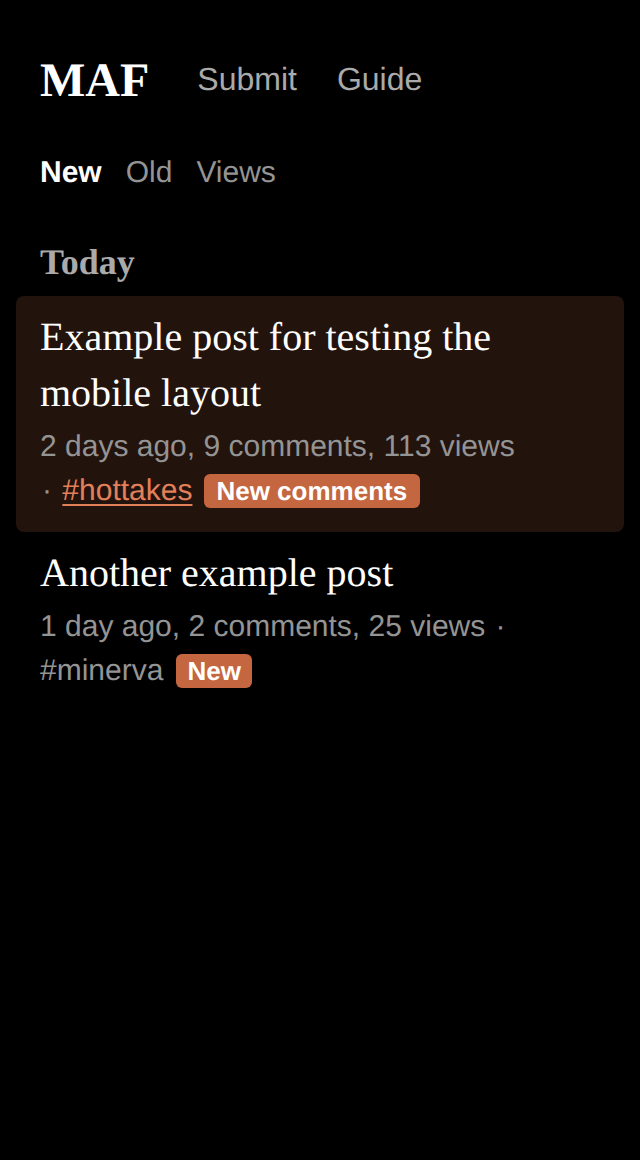
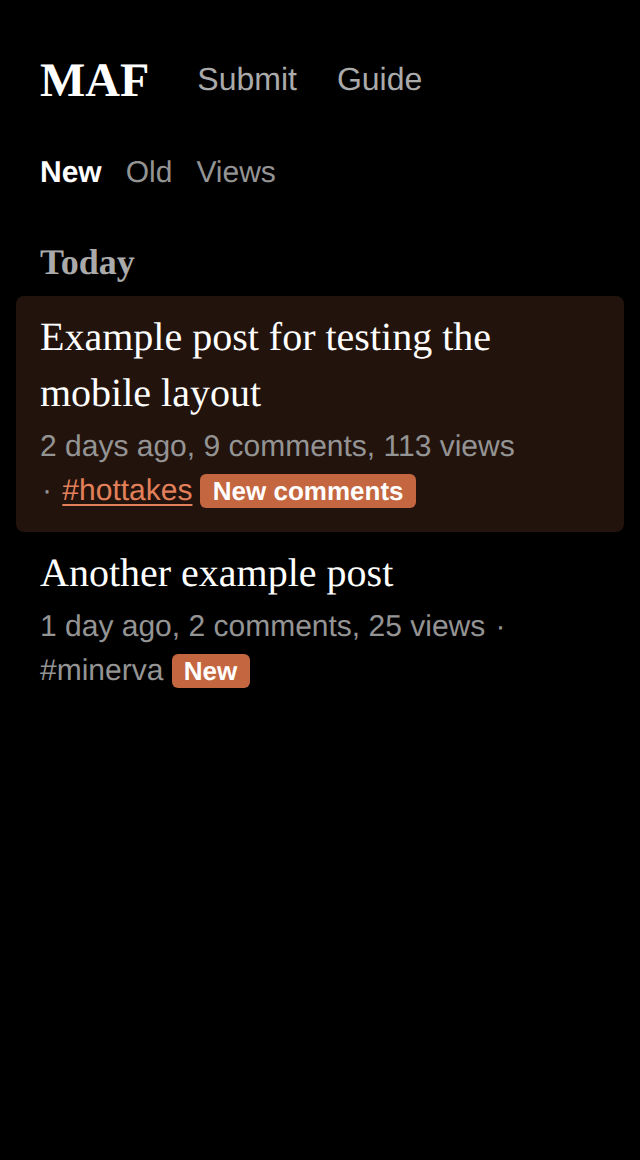
Align wrapped badges and add desktop comparisons

Changed region(s): [[0.3125, 0.4034, 0.6562, 0.4345], [0.25, 0.5586, 0.375, 0.5897]]

diff --git a/maf/static/style.css b/maf/static/style.css
@@ -226,6 +226,8 @@ textarea::placeholder, input::placeholder { color: var(--meta); opacity: 1; }
              text-decoration: underline; text-underline-offset: 3px; }
 /* After Show: new replies say "New" until the next reload; a reaction that went up gets a fading ring. */
 .new-tag { display: inline-block; white-space: nowrap; font: 600 13px var(--sans); color: var(--new-ink); background: var(--new-fill); border-radius: 3px; padding: 1px 6px; margin-left: 6px; }
+/* The preceding space separates inline badges but collapses at a line break. */
+.new-list .meta > .new-tag { margin-left: 0; }
 .react.arrived { box-shadow: 0 0 0 1.5px var(--ink); border-radius: 999px; }
 /* Emoji someone else added since your last visit to the post: the New badge's orange, kept on (new.js). */
 .react.react-new, .react.react-new:hover { background: var(--new-fill); color: var(--new-ink); }

diff --git a/maf/static/new.js b/maf/static/new.js
@@ -137,7 +137,7 @@
     const tag = document.createElement("span");
     tag.className = "new-tag";
     tag.textContent = label;
-    row.querySelector(".meta")?.append(tag);
+    row.querySelector(".meta")?.append(" ", tag);
     newList.append(row);
   }
 
@@ -146,7 +146,11 @@
     Object.assign(openedAt, opened());
     for (const row of [...newList.children]) {
       if (whatsNew(row)) continue;
-      row.querySelector(".new-tag")?.remove();
+      const badge = row.querySelector(".new-tag");
+      if (badge?.previousSibling?.nodeType === Node.TEXT_NODE && badge.previousSibling.nodeValue === " ") {
+        badge.previousSibling.remove();
+      }
+      badge?.remove();
       const [list, next] = homes.get(row) ?? [];
       if (!list) row.remove();
       else if (next?.parentElement === list) list.insertBefore(row, next);

diff --git a/tests/test_new_badge_layout.py b/tests/test_new_badge_layout.py
@@ -21,8 +21,8 @@ def test_new_comments_badge_wraps_whole_but_stays_inline_when_it_fits():
         )
         page = browser.new_page(viewport={"width": 390, "height": 844}, is_mobile=True)
         page.set_content("""<!doctype html><meta name="viewport" content="width=device-width, initial-scale=1">
-            <ol class="list"><li><div class="meta" id="narrow"><span class="counts">12 comments · #synthetic</span><span class="new-tag">New comments</span></div></li>
-            <li><div class="meta" id="wide"><span class="counts">12 comments · #synthetic</span><span class="new-tag">New comments</span></div></li>
+            <ol class="list new-list"><li><div class="meta" id="narrow"><span class="counts">12 comments · #synthetic</span> <span class="new-tag">New comments</span></div></li>
+            <li><div class="meta" id="wide"><span class="counts">12 comments · #synthetic</span> <span class="new-tag">New comments</span></div></li>
             <li><div class="meta" id="tiny"><span class="counts">x</span><span class="new-tag">New comments</span></div></li></ol>""")
         page.add_style_tag(content=CSS.read_text())
         layout = page.evaluate("""() => {
@@ -42,7 +42,8 @@ def test_new_comments_badge_wraps_whole_but_stays_inline_when_it_fits():
                 const text = document.createRange(); text.selectNodeContents(label);
                 const prefix = row.querySelector('.counts').getBoundingClientRect();
                 const fragments = [...text.getClientRects()].map(r => ({top:r.top, left:r.left}));
-                return {fragments, prefixTop:prefix.top, prefixLeft:prefix.left,
+                return {fragments, prefixTop:prefix.top, prefixLeft:prefix.left, prefixRight:prefix.right,
+                        badgeLeft:label.getBoundingClientRect().left,
                         parentRight:row.getBoundingClientRect().right, badgeRight:label.getBoundingClientRect().right};
             }
             return {narrow:measure(narrow), wide:measure(wide), tiny:measure(tiny)};
@@ -52,6 +53,8 @@ def test_new_comments_badge_wraps_whole_but_stays_inline_when_it_fits():
     narrow, wide = layout["narrow"], layout["wide"]
     assert len(narrow["fragments"]) == 1, f"badge split across lines: {narrow}"
     assert narrow["fragments"][0]["top"] > narrow["prefixTop"] + 10, narrow
+    assert abs(narrow["badgeLeft"] - narrow["prefixLeft"]) < 1, narrow
+    assert 2 <= wide["badgeLeft"] - wide["prefixRight"] <= 10, wide
     assert narrow["badgeRight"] <= narrow["parentRight"], narrow
     assert len(wide["fragments"]) == 1, wide
     assert abs(wide["fragments"][0]["top"] - wide["prefixTop"]) < 5, wide
